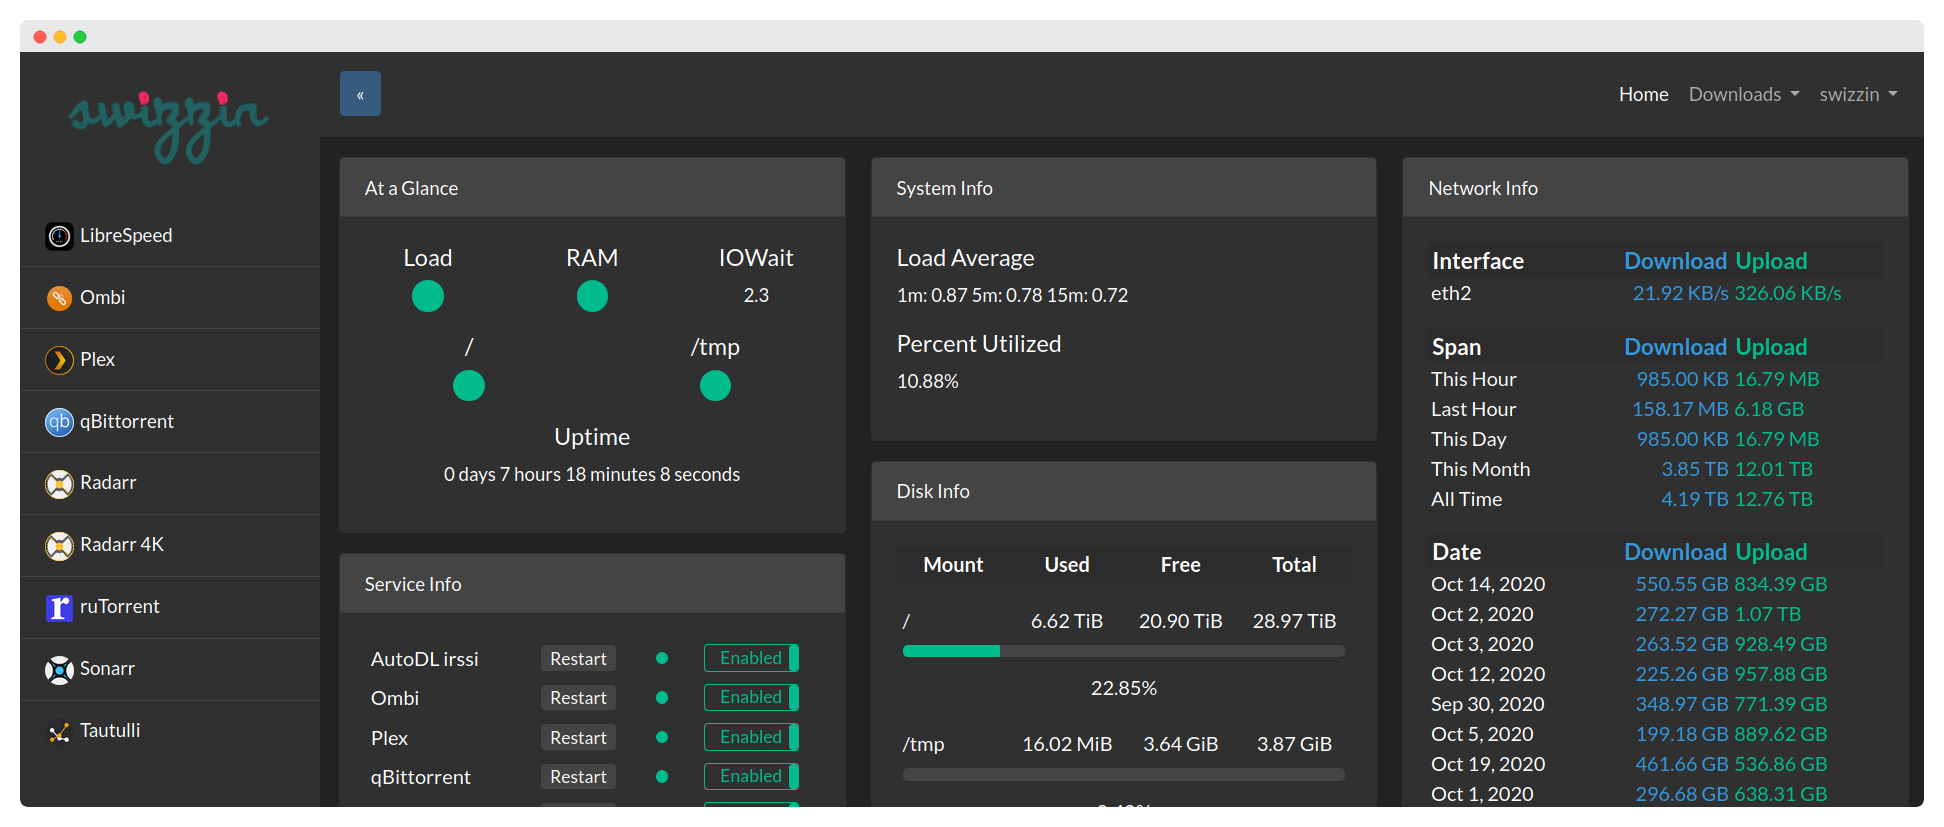
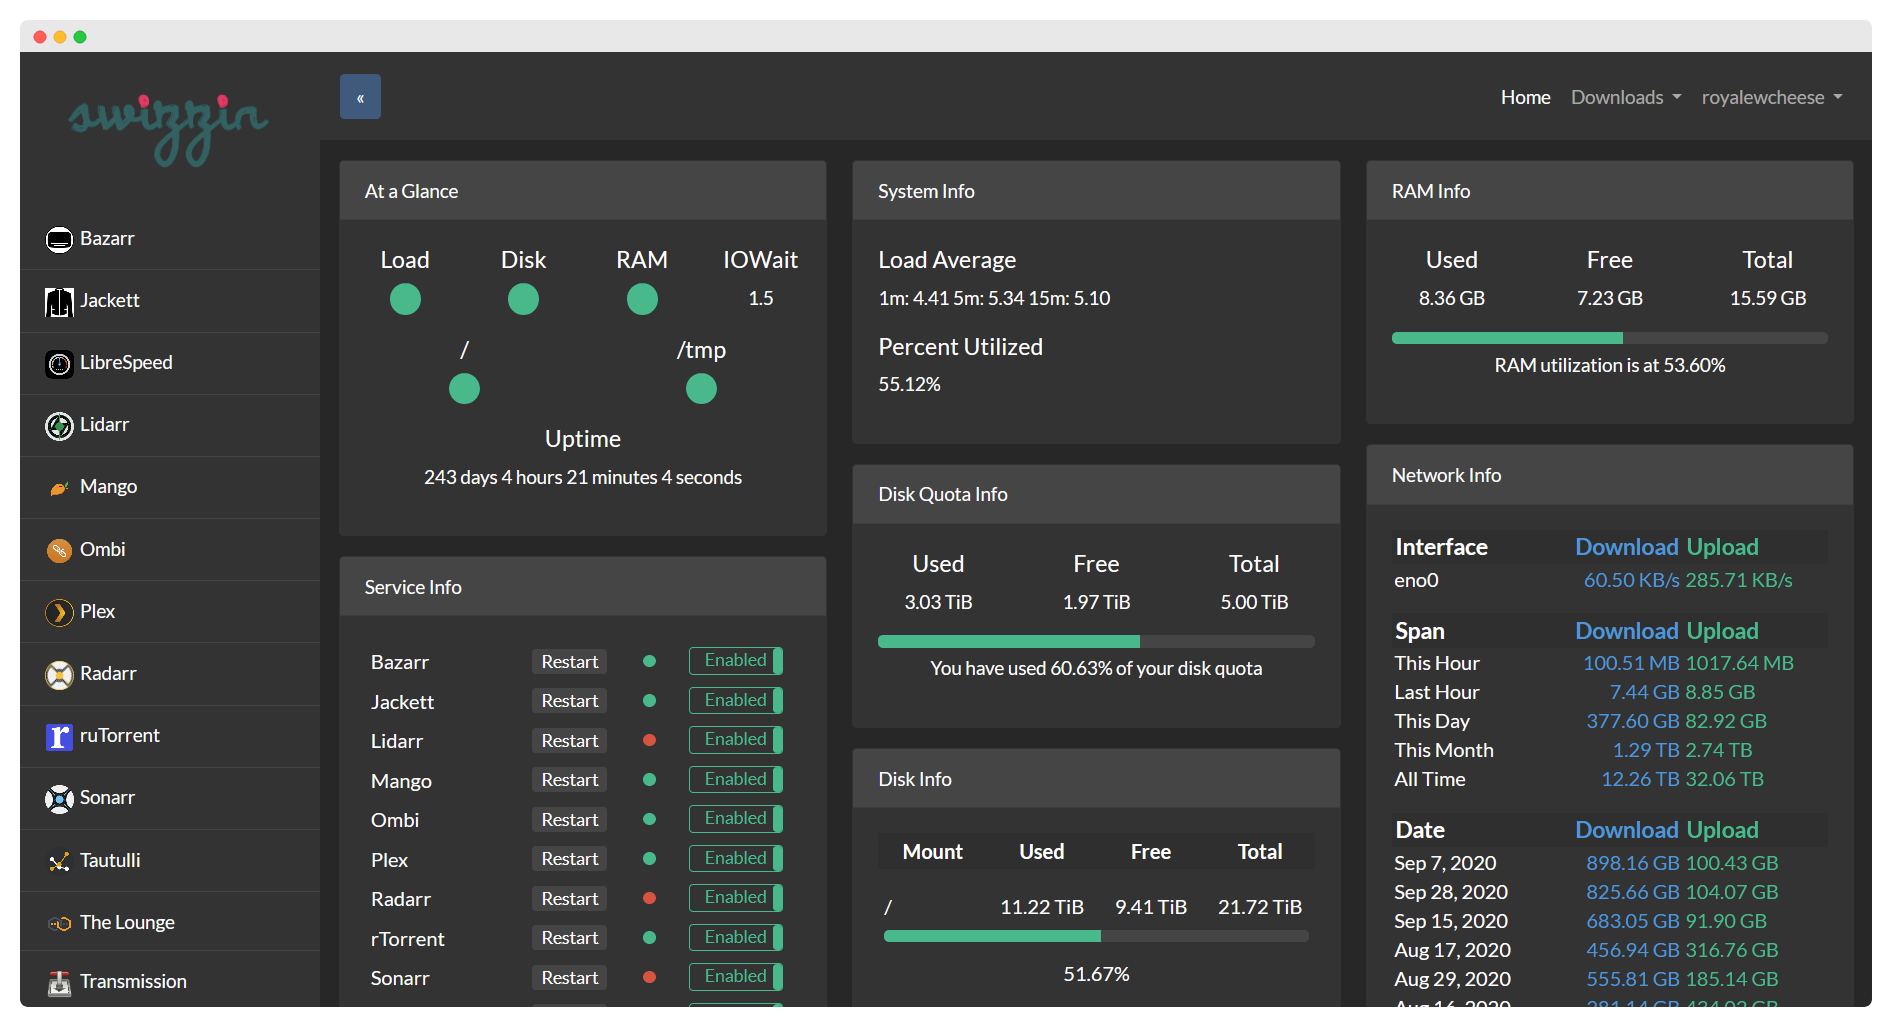
Changed images, and default to dark

diff --git a/src/theme/Hero/index.js b/src/theme/Hero/index.js
@@ -6,7 +6,7 @@ import useDocusaurusContext from "@docusaurus/useDocusaurusContext";
 import Image from "@theme/IdealImage";
 import Link from "@docusaurus/Link";
 
-import screenshot from "@site/static/img/pages/light/panel-screenshot.png";
+import screenshot from "@site/static/img/pages/dark/panel-screenshot.png";
 import styles from "./styles.module.scss";
 
 function Hero() {
